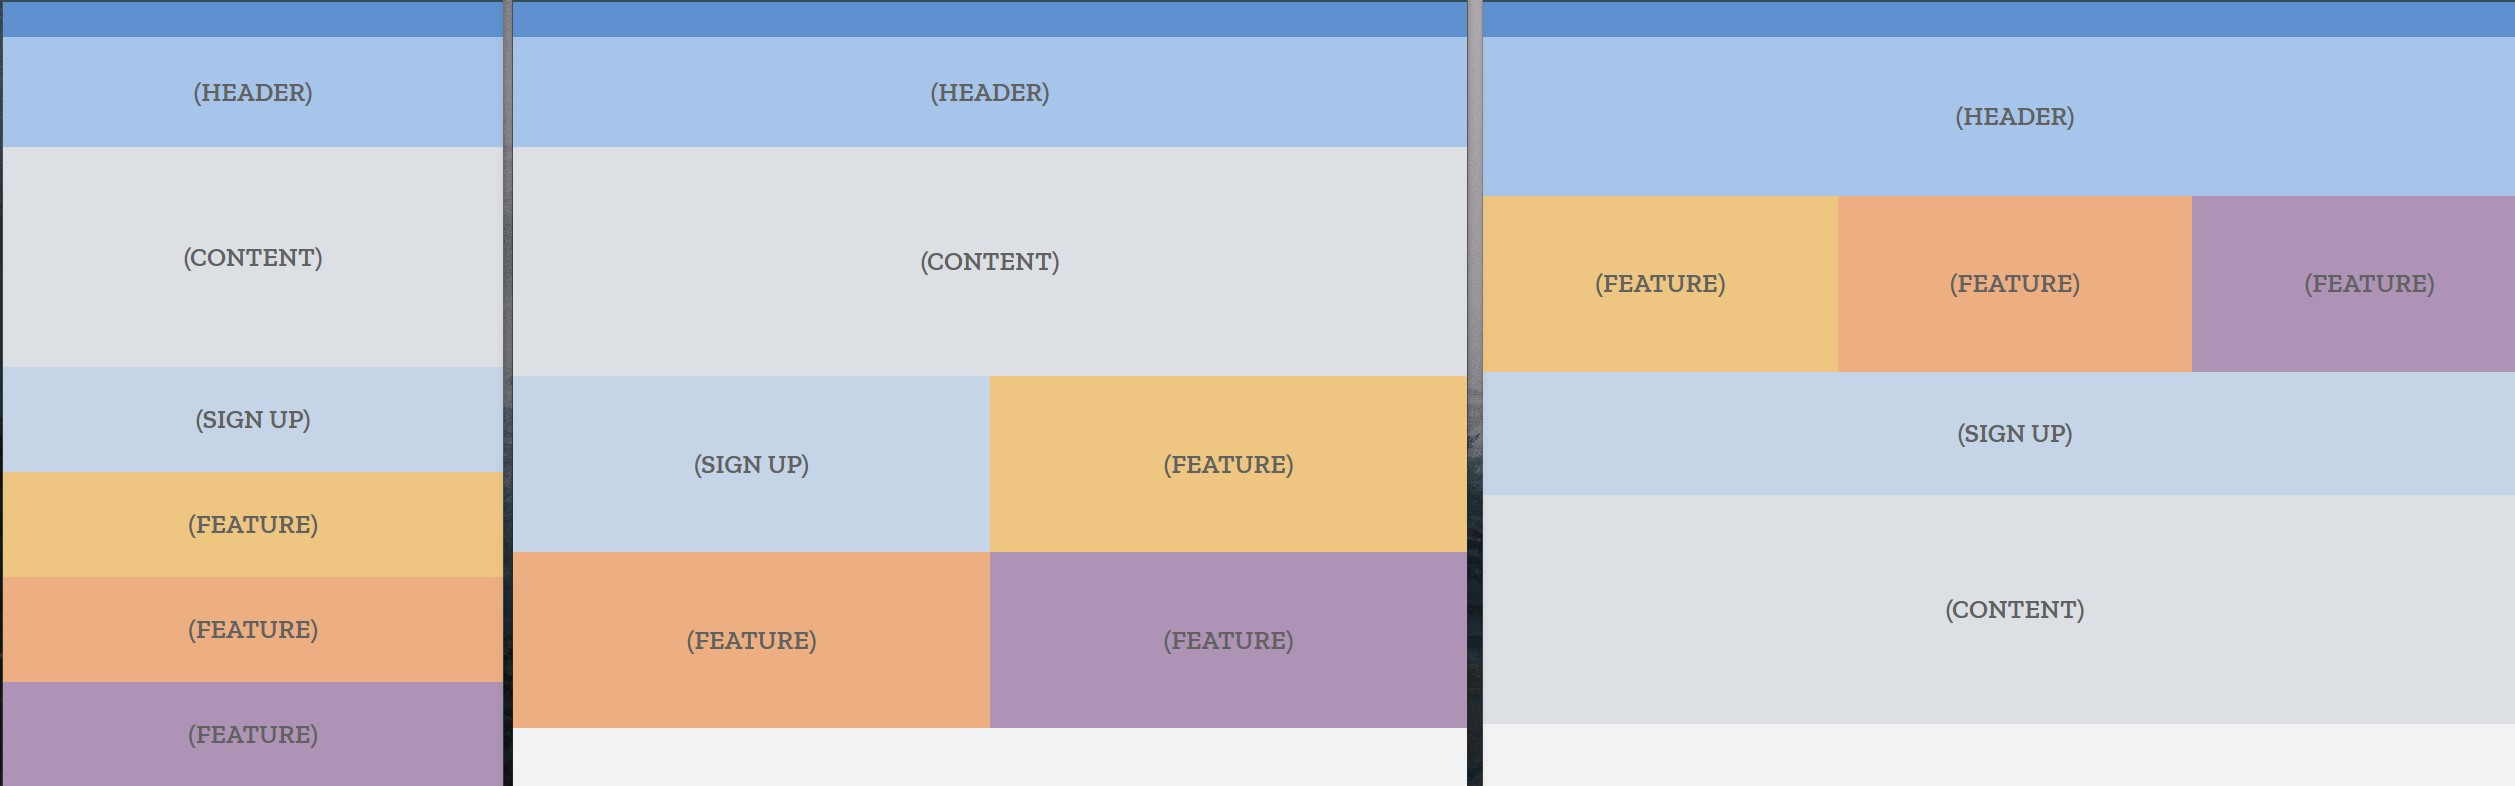
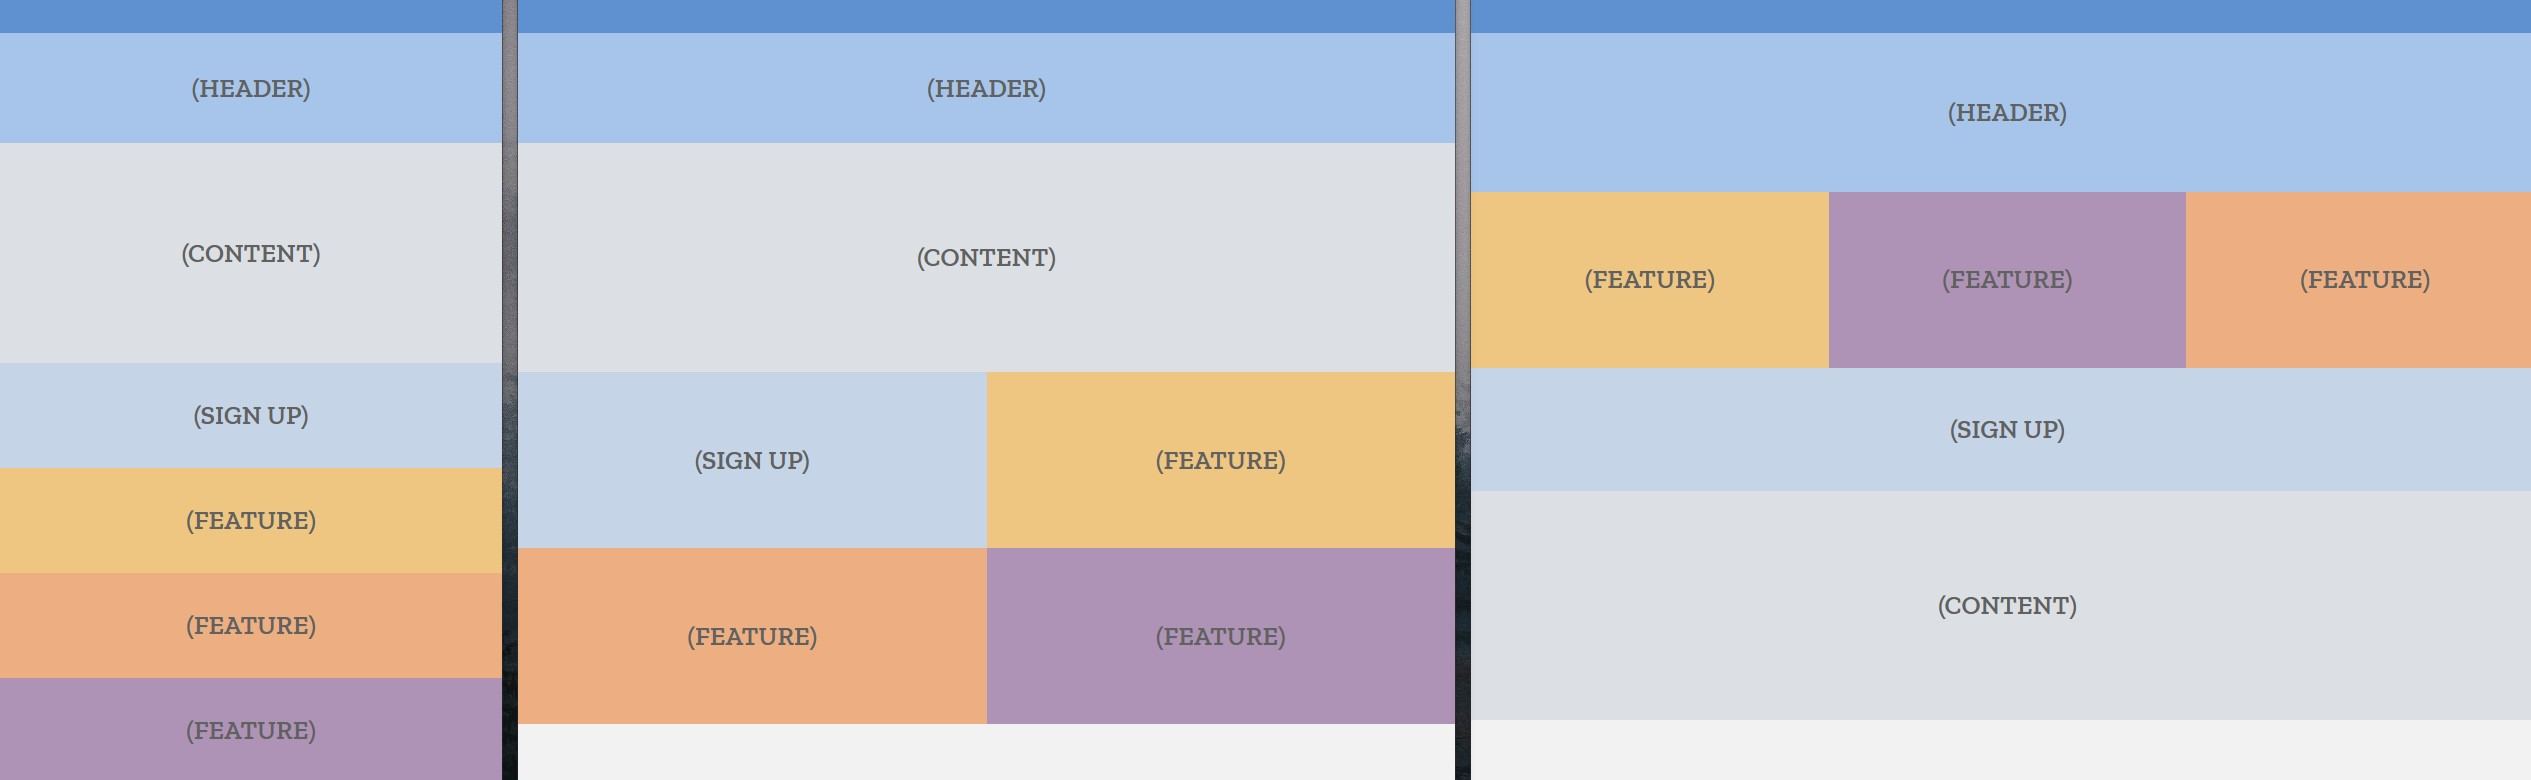
2/3 of colors box

diff --git a/09-4-flexbox-so-colorful/style.css b/09-4-flexbox-so-colorful/style.css
@@ -1,0 +1,218 @@
+* {
+  background-color: rgb(158, 157, 157);
+}
+.main-div {
+  height: 55vh;
+  width: 45rem;
+  box-sizing: border-box;
+  margin: 1rem auto;
+  display: flex;
+}
+.column-1 {
+  box-sizing: border-box;
+  height: 100%;
+  width: 75%;
+}
+.line-1 {
+  height: 40%;
+  width: 100%;
+  display: flex;
+  align-items: stretch;
+}
+.box-1 {
+  width: 25%;
+  background-color: hsl(12, 63%, 80%);
+}
+.box-2 {
+  width: 12%;
+  background-color: hsl(12, 41%, 46%);
+}
+/* --------------------------- */
+.box-3 {
+  width: 13%;
+}
+.box-3-1 {
+  width: 100%;
+  height: 70%;
+  background-color: hsl(12, 86%, 66%);
+}
+.box-3-2 {
+  width: 100%;
+  height: 30%;
+  background-color: hsl(32, 86%, 66%);
+}
+/* --------------------------- */
+.box-4 {
+  width: 15%;
+}
+.box-4-1 {
+  width: 100%;
+  height: 70%;
+  background-color: hsl(22, 86%, 66%);
+  display: flex;
+}
+.box-4--1 {
+  width: 45%;
+  height: 70%;
+  background-color: hsl(29, 81%, 71%);
+}
+.box-4--2 {
+  width: 55%;
+  height: 70%;
+  background-color: hsl(12, 86%, 59%);
+}
+.box-4-2 {
+  width: 100%;
+  height: 30%;
+  background-color: hsl(44, 86%, 67%);
+}
+/* --------------------------- */
+.box-5 {
+  width: 16%;
+}
+.box-5-1 {
+  width: 100%;
+  height: 64%;
+  background-color: hsl(91, 19%, 45%);
+  display: flex;
+}
+.box-5--1 {
+  width: 45%;
+  height: 70%;
+  background-color: hsl(19, 72%, 40%);
+}
+.box-5--2 {
+  width: 55%;
+  height: 70%;
+  background-color: hsl(91, 28%, 45%);
+}
+.box-5-2 {
+  width: 100%;
+  height: 36%;
+  background-color: hsl(66, 25%, 61%);
+}
+/* ------------------------------ */
+.box-6 {
+  width: 23%;
+}
+.box-6-1 {
+  width: 100%;
+  height: 50%;
+  background-color: hsl(14, 71%, 80%);
+  display: flex;
+}
+.box-6--1 {
+  width: 30%;
+  background-color: hsl(61, 78%, 75%);
+  display: flex;
+}
+.box-6-2 {
+  width: 100%;
+  height: 50%;
+  background-color: hsl(41, 82%, 67%);
+  display: flex;
+}
+.box-6--2 {
+  width: 70%;
+  background-color: hsl(61, 65%, 66%);
+  display: flex;
+}
+/* ----------------------------------- */
+.line-2 {
+  height: 60%;
+  width: 100%;
+  display: flex;
+  align-items: stretch;
+}
+
+.box-l2-1 {
+  width: 40%;
+}
+.box-l2--1 {
+  background-color: rgb(143, 179, 81);
+  width: 100%;
+  height: 51%;
+}
+.box-l2--1-1 {
+  background-color: rgb(230, 155, 106);
+  width: 35%;
+  height: 100%;
+}
+.box-l2--2 {
+  background-color: rgb(194, 165, 103);
+  width: 100%;
+  height: 40%;
+}
+
+.box-l2--2-1 {
+  background-color: rgb(161, 126, 102);
+  width: 55%;
+  height: 100%;
+}
+
+.box-l2--3 {
+  background-color: rgb(131, 156, 84);
+  width: 100%;
+  height: 9%;
+}
+
+.box-l2--3-1 {
+  background-color: rgb(79, 104, 55);
+  width: 50%;
+  height: 100%;
+}
+
+.box-l2-2 {
+  width: 60%;
+}
+.box-l2-2-1 {
+  width: 100%;
+  height: 80%;
+  display: flex;
+  align-items: stretch;
+}
+
+.box-l2-2-1--1 {
+  width: 28%;
+  background-color: rgb(233, 183, 108);
+}
+.box-l2-2-1--2 {
+  width: 44%;
+  background-color: rgb(177, 140, 85);
+}
+.box-l2-2-1--3 {
+  width: 28%;
+}
+.box-l2-2-1--3-1 {
+  height: 40%;
+  background-color: rgb(238, 184, 69);
+}
+.box-l2-2-1--3-2 {
+  height: 60%;
+  background-color: rgb(238, 221, 69);
+}
+.box-l2-2-2 {
+  width: 100%;
+  height: 20%;
+  display: flex;
+}
+
+.box-l2-2-2--1 {
+  width: 35%;
+  background-color: hsl(12, 15%, 45%);
+}
+.box-l2-2-2--2 {
+  width: 35%;
+  background-color: hsl(12, 26%, 69%);
+}
+.box-l2-2-2--3 {
+  width: 35%;
+  background-color: hsl(50, 59%, 69%);
+}
+
+.column-2 {
+  box-sizing: border-box;
+  border: 1px solid rgb(233, 231, 138);
+  height: 100%;
+  width: 25%;
+}

diff --git a/09-4-flexbox-so-colorful/index.html b/09-4-flexbox-so-colorful/index.html
@@ -1,0 +1,80 @@
+<!DOCTYPE html>
+<html lang="en">
+<head>
+  <meta charset="UTF-8">
+  <meta http-equiv="X-UA-Compatible" content="IE=edge">
+  <meta name="viewport" content="width=device-width, initial-scale=1.0">
+  <title>Document</title>
+  <link rel="stylesheet" href="https://cdnjs.cloudflare.com/ajax/libs/normalize/8.0.1/normalize.min.css" integrity="sha512-NhSC1YmyruXifcj/KFRWoC561YpHpc5Jtzgvbuzx5VozKpWvQ+4nXhPdFgmx8xqexRcpAglTj9sIBWINXa8x5w==" crossorigin="anonymous" referrerpolicy="no-referrer" />
+ <link rel="stylesheet" href="style.css">
+</head>
+<body>
+  <div class="main-div">
+    <div class="column-1">
+      <div class="line-1">
+        <div class="box-1"></div>
+        <div class="box-2"></div>
+        <div class="box-3">
+          <div class="box-3-1"></div>
+          <div class="box-3-2"></div>
+        </div>
+        <div class="box-4">
+          <div class="box-4-1">
+            <div class="box-4--1"></div>
+            <div class="box-4--2"></div>
+          </div>
+          <div class="box-4-2"></div>
+        </div>
+        <div class="box-5">
+          <div class="box-5-1">
+            <div class="box-5--1"></div>
+            <div class="box-5--2"></div>
+          </div>
+          <div class="box-5-2"></div>
+        </div>
+        <div class="box-6">
+          <div class="box-6-1">
+            <div class="box-6--1"></div>
+          </div>
+          <div class="box-6-2">
+            <div class="box-6--2"></div>
+          </div>
+        </div>
+      </div>
+      <div class="line-2">
+
+        <div class="box-l2-1">
+          <div class="box-l2--1">
+            <div class="box-l2--1-1"></div>
+          </div>
+          <div class="box-l2--2">
+            <div class="box-l2--2-1"></div>
+          </div>
+          <div class="box-l2--3">
+            <div class="box-l2--3-1"></div>
+          </div>
+        </div>
+
+        <div class="box-l2-2">
+          <div class="box-l2-2-1">
+            <div class="box-l2-2-1--1"></div>
+            <div class="box-l2-2-1--2"></div>
+            <div class="box-l2-2-1--3">
+              <div class="box-l2-2-1--3-1"></div>
+              <div class="box-l2-2-1--3-2"></div>
+            </div>
+          </div>
+          <div class="box-l2-2-2">
+            <div class="box-l2-2-2--1"></div>
+            <div class="box-l2-2-2--2"></div>
+            <div class="box-l2-2-2--3"></div>
+          </div>
+        </div>
+
+      </div>
+    </div>
+    <div class="column-2"></div>
+    
+  </div>
+</body>
+</html>

diff --git a/09-2-flexbox-no-gaps/style.css b/09-2-flexbox-no-gaps/style.css
@@ -88,6 +88,13 @@ h2 {
     width: 100%;
     height: 7rem;
   }
+  .feature-1 {
+    order: -1;
+  }
+
+  .feature-3 {
+    order: -1;
+  }
   .line-2 {
     order: +2;
     height: 25%;
